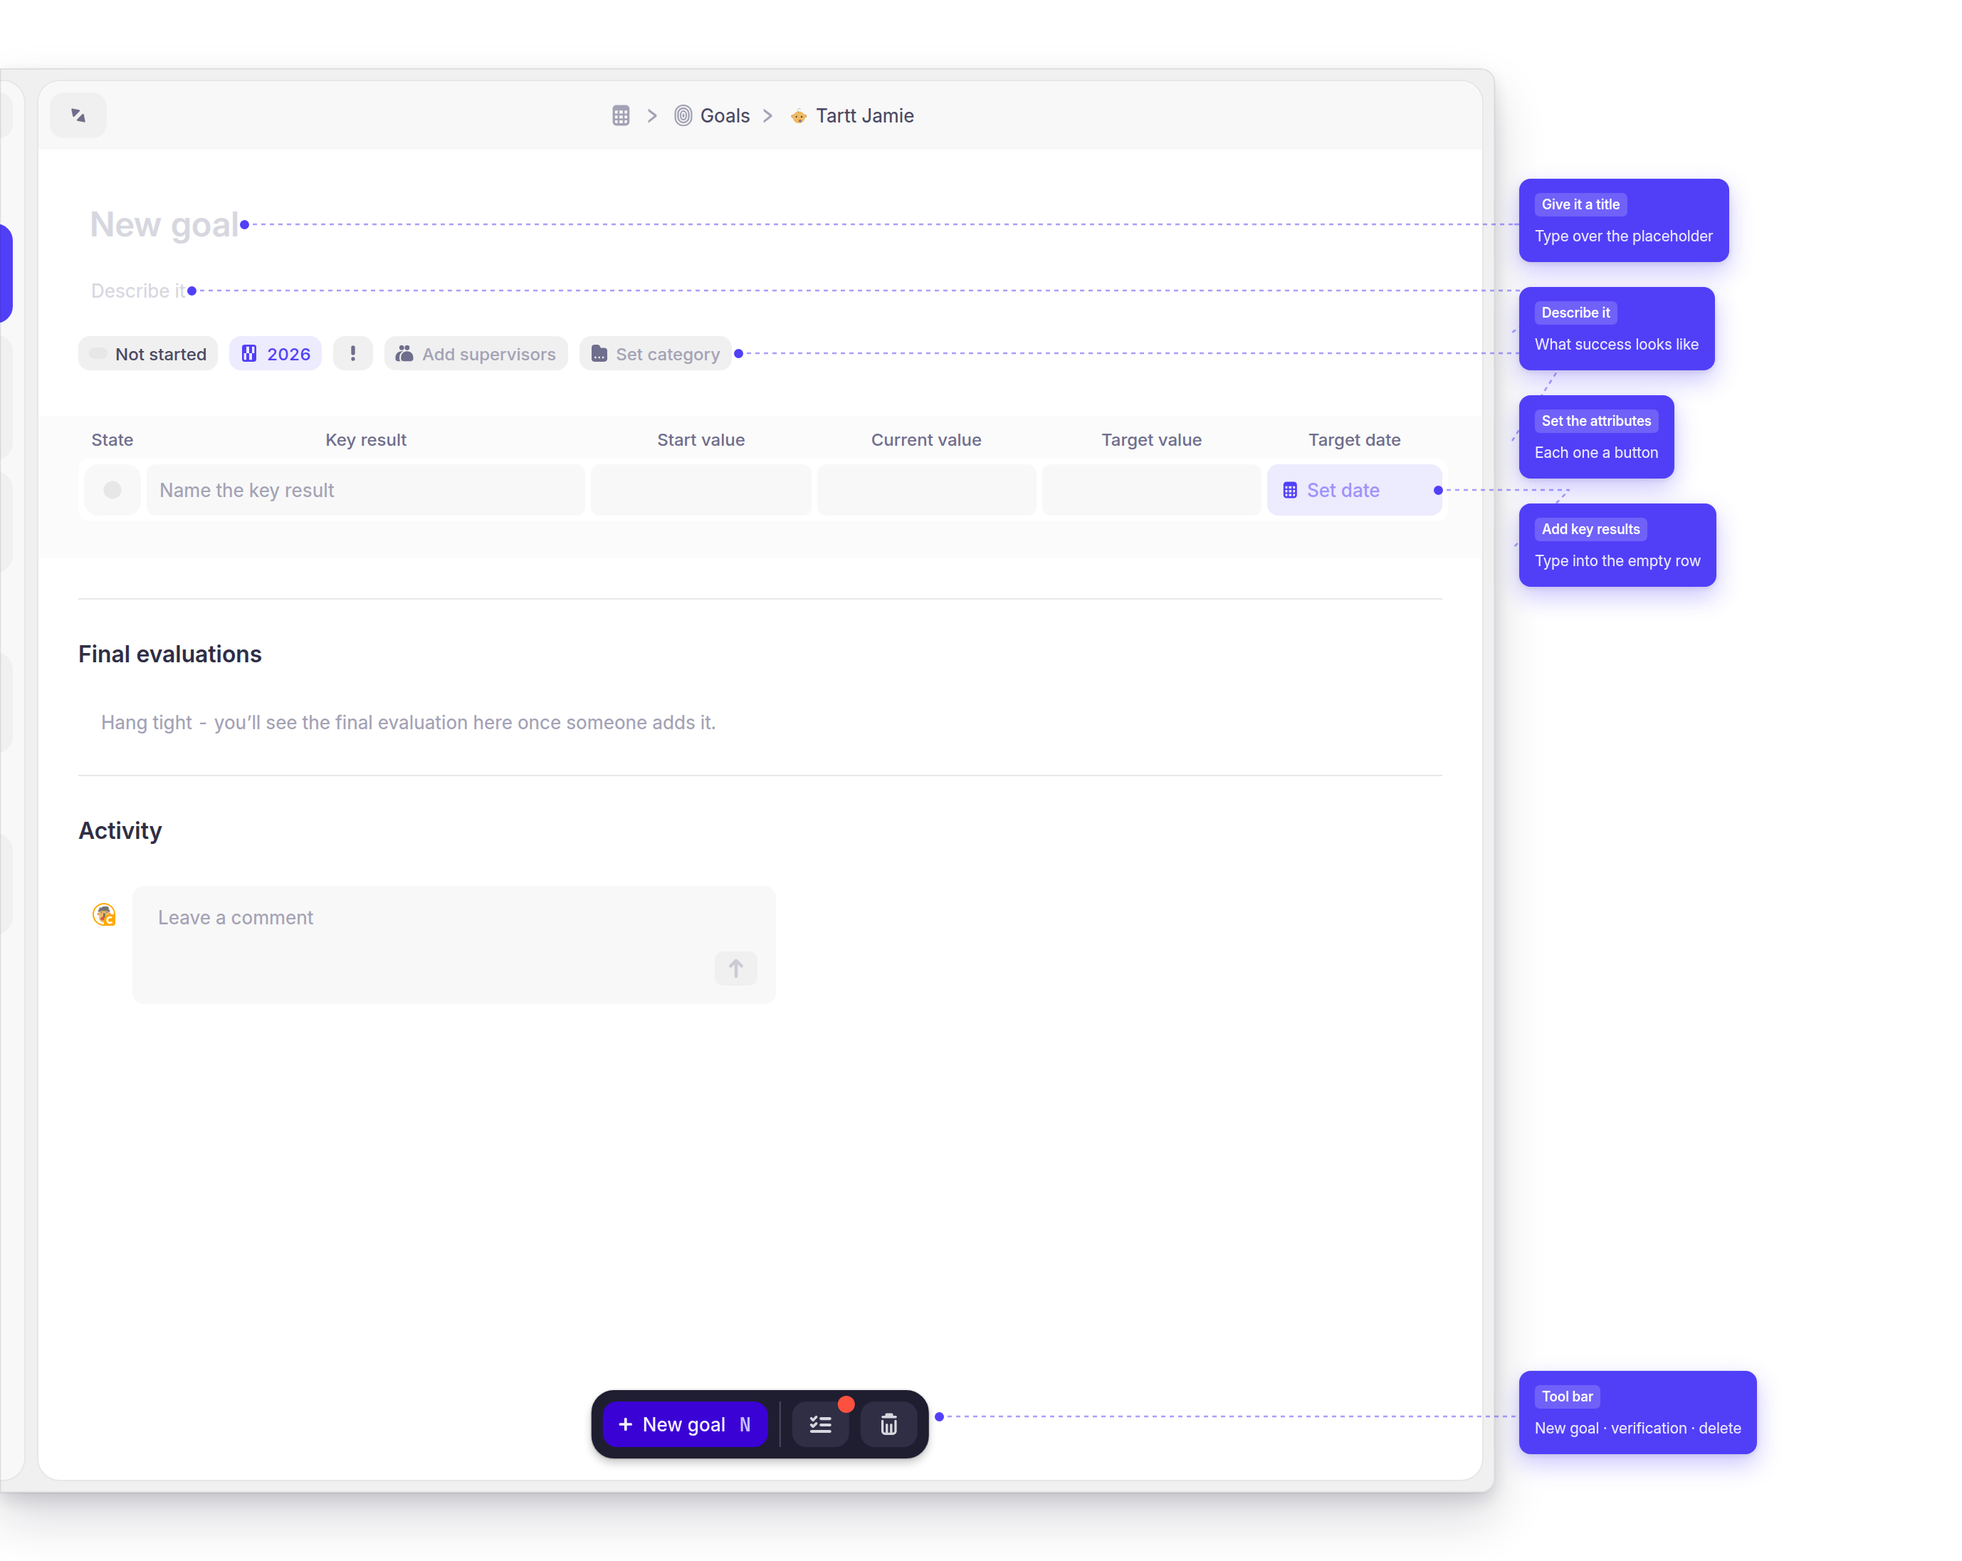
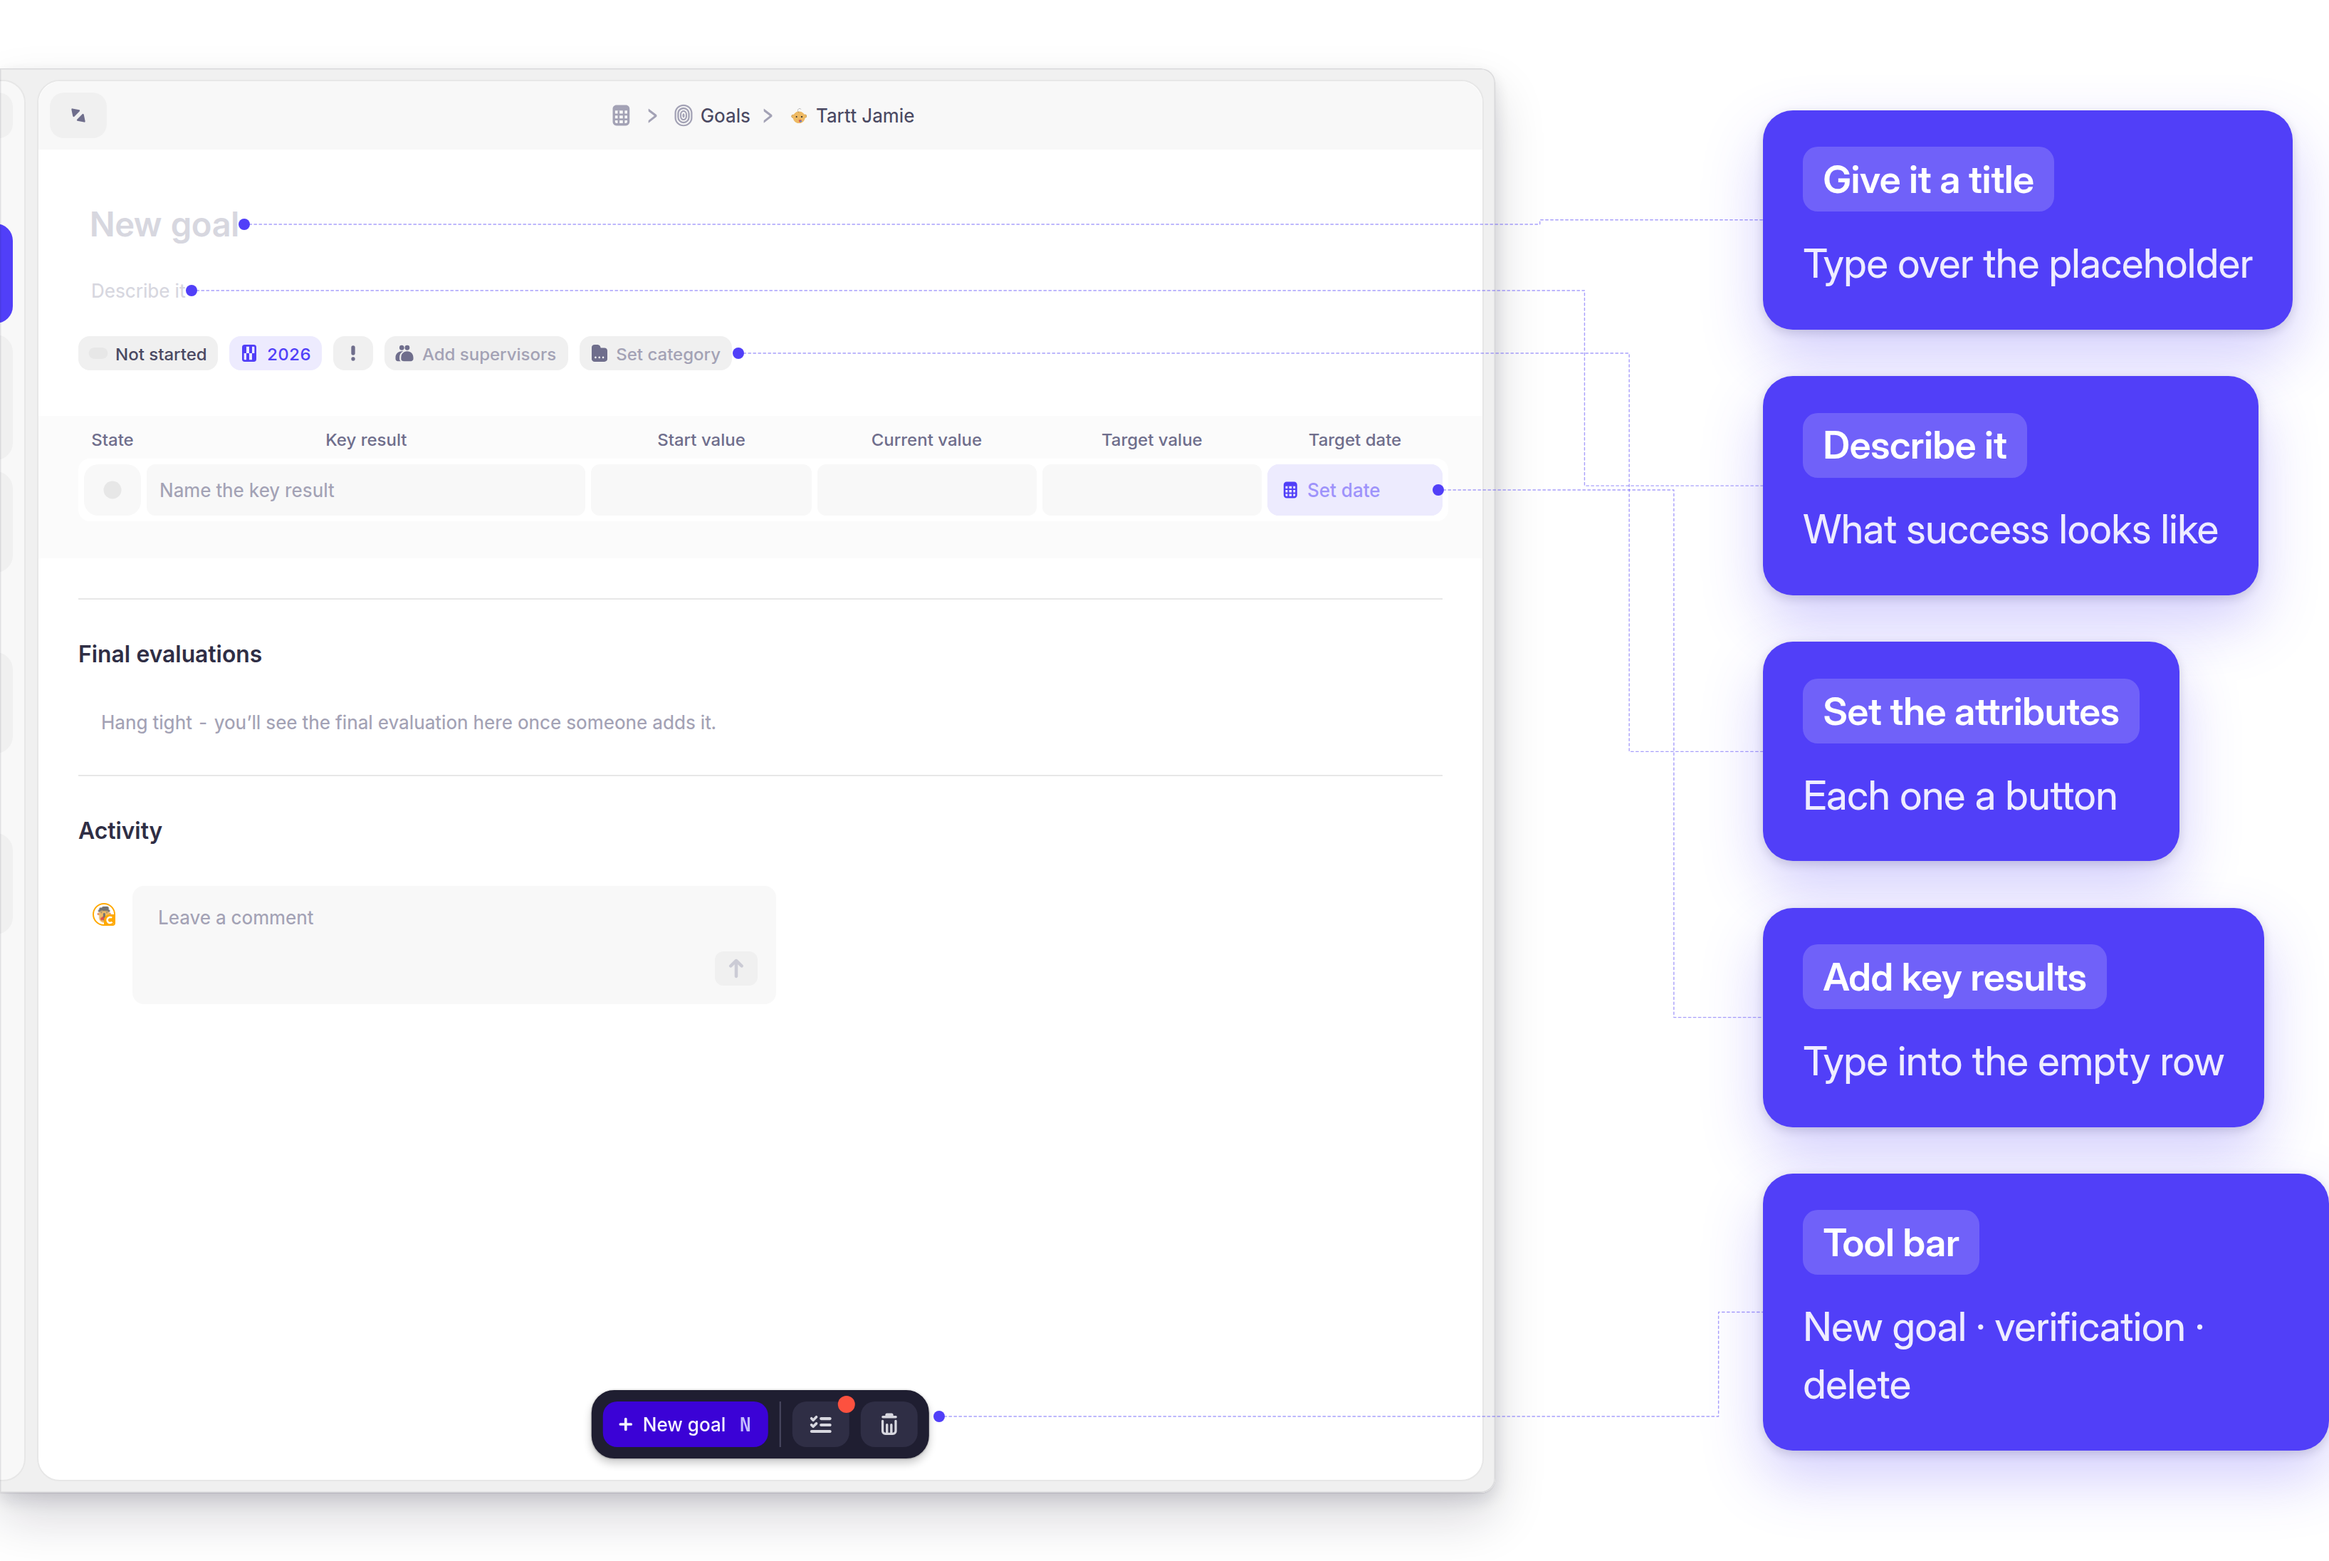
Goals: readable callouts, clean leader routing, drop two false required flags
Callouts
- They were unreadable for a structural reason: a ~2800px figure renders in
  a ~700px column, so type drawn at "21px" arrives at about 5px. Callout
  dimensions are now expressed in the CSS pixels the reader actually sees
  (~12px body) and multiplied by the figure's own scale, so every figure
  annotates at the same apparent size. The annotation column is derived the
  same way.
- Leaders no longer bend oddly or hide behind cards. Card heights were
  being estimated, which made them collide; the cards are now laid out by
  the browser in a real column, and a second pass measures where they
  landed and draws each leader from its anchor — out of the window, down a
  rail of its own, straight into the card. One rail per callout, so no line
  crosses another.

Content
- Title and the key-result Name are not required fields; the required flags
  are removed. "Fill the title" is a Verification/methodology item, which
  is a different thing from a form constraint — the module notes said
  required for both and are corrected.

Claude-Session: https://claude.ai/code/session_01BcTgTxjwzSdWmEF7MFmzuM

diff --git a/docs-guide/module-notes/goals.md b/docs-guide/module-notes/goals.md
@@ -164,8 +164,9 @@ value it for retrospectives.
 - **Layout (confirmed, top→bottom):** large **title** → a **description** line under it → an
   **attributes row** → the **key results table** → a **Final evaluations** section → an
   **Activity** section.
-- **Title** — inline-editable; placeholder on a new goal. `field: text · required · who:
-  coach/athlete · auto-save`.
+- **Title** — inline-editable; placeholder on a new goal. `field: text · NOT required (the
+  form accepts an untitled goal; "Fill the title" is a Verification/methodology item, not a
+  field constraint — corrected 09/2026) · who: coach/athlete · auto-save`.
 - **Description** — free-text context ("Describe it…" placeholder). `field: textarea ·
   optional · auto-save`.
 - **Auto-save (confirmed):** there is **no explicit Save button** — changes apply immediately
@@ -204,8 +205,8 @@ value it for retrospectives.
   VALUE · TARGET DATE**.
 - One **row = one measurable outcome**:
   - **State** — `colored dot per row · same six states as the goal` (teal = on track).
-  - **Key result (name)** — `text · required · placeholder "Name the key result"`. E.g.
-    "Sprint starts 3× per week."
+  - **Key result (name)** — `text · NOT required · placeholder "Name the key result"`
+    (corrected 09/2026). E.g. "Sprint starts 3× per week."
   - **Start value** — `free text/number · where the athlete began (0 / "unknown")`.
   - **Current value** — `free text/number · updated MANUALLY as progress is made`.
   - **Target value** — `free text/number · what counts as success (140 kg / 3)`.

diff --git a/docs-guide/visuals/demo-cast.md b/docs-guide/visuals/demo-cast.md
@@ -97,6 +97,19 @@ bottom-right, the export menu top-left.
 colours are the point, a menu whose items are readable — leave it clean and let the caption
 carry it. Callouts are for naming parts that aren't self-evident.
 
+**Size callout type against the RENDERED figure, not the raw pixels.** A figure ~2800px wide
+lands in a ~700px docs column, so anything drawn at "14px" arrives at about 5px and is
+unreadable. The compositor computes `k = figureWidth / 700` and expresses every callout
+dimension in the CSS pixels the reader will actually see (~12px body), multiplied by `k`. The
+annotation column's width is derived the same way, so it holds its apparent size on every
+figure.
+
+**Let the browser lay the cards out, then draw the leaders.** Estimating card heights is what
+makes them collide. Cards go in a real flex column; a second pass measures where they landed
+and draws each leader from its anchor — horizontally out of the window, down a rail of its own,
+then straight into the card's edge. One rail per callout means no leader crosses another or
+disappears behind a card.
+
 **Callout cards are Yarmill indigo with light text** (chip in a white tint, body at ~88%
 white), and they **sit off the app, in a transparent strip at the edge** of the figure — to the right
 of a tall screen, underneath a wide one. The strip has no background, so it merges into the
